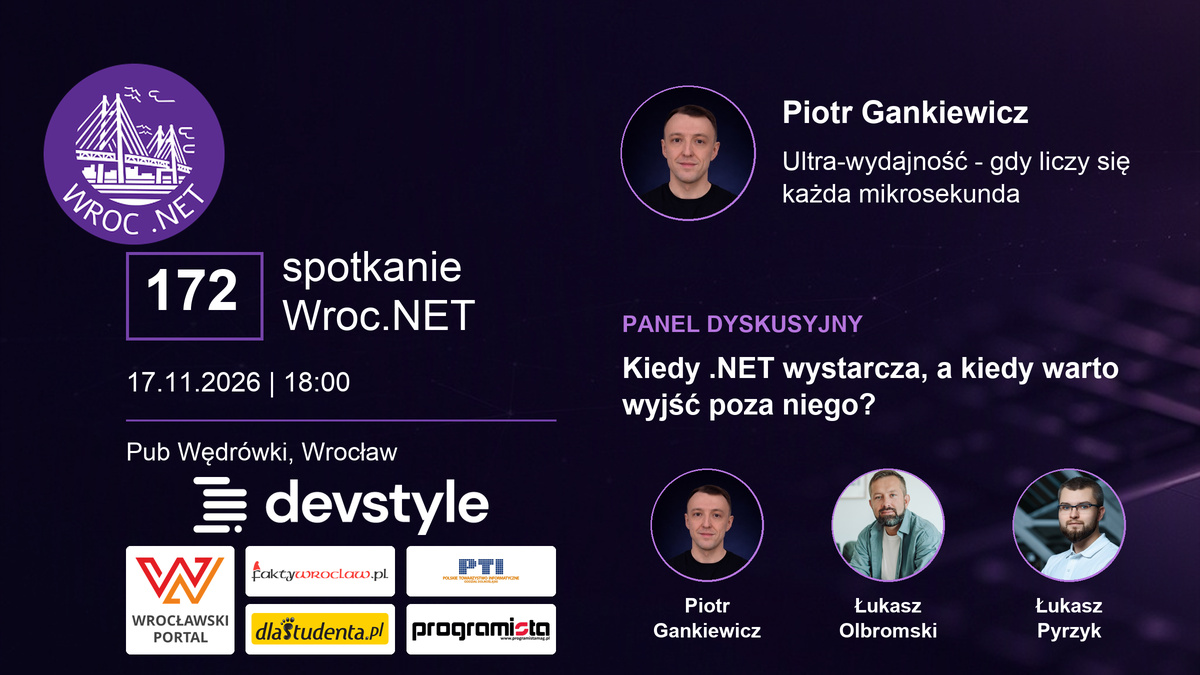
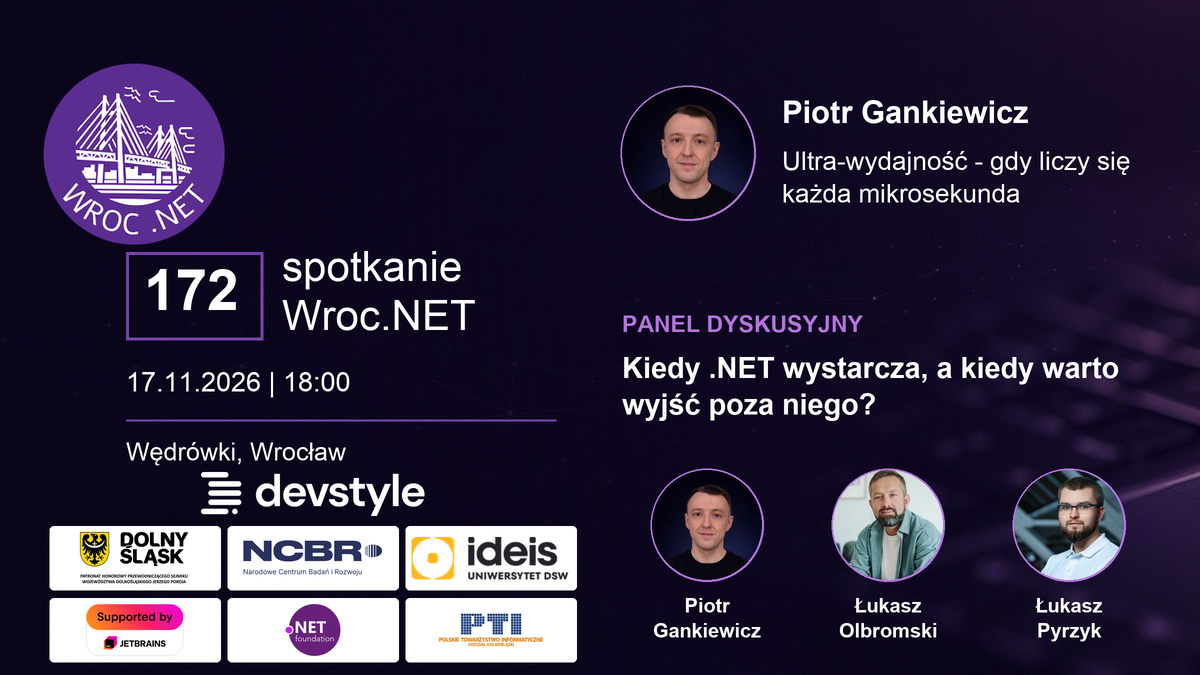
Rename venue to Wędrówki everywhere except historical slides

Changed region(s): [[0.0308, 0.6533, 0.4933, 0.9956]]

diff --git a/_includes/community-photos.html b/_includes/community-photos.html
@@ -14,6 +14,6 @@
       <img src="{{ '/assets/images/community/panel.webp' | relative_url }}" width="1200" height="800" loading="lazy" alt="Prelegenci podczas panelu dyskusyjnego Wroc.NET.">
       <img src="{{ '/assets/images/community/zespol.webp' | relative_url }}" width="1200" height="800" loading="lazy" alt="Wspólne zdjęcie zespołu i prelegentów na scenie 171. spotkania Wroc.NET.">
     </div>
-    <figcaption>171. spotkanie Wroc.NET · 20 października 2026 · Pub Wędrówki</figcaption>
+    <figcaption>171. spotkanie Wroc.NET · 20 października 2026 · Wędrówki</figcaption>
   </figure>
 </section>

diff --git a/office/content/samples/announcements/linkedin-examples.md b/office/content/samples/announcements/linkedin-examples.md
@@ -17,7 +17,7 @@ Zamknęliśmy sezon – i kurczę, aż szkoda, że to już.
 
 Dzięki, że byliście z nami na tym meetupie. Czuć było, że coś się zmieniło – więcej luzu, więcej rozmów, nie tylko słuchania. Wasza energia i zaangażowanie zrobiły mega klimat i pokazały, że ta nowa/stara formuła sprawdza się świetnie. 🔥 
 
-Do tego Pub Wędrówki – strzał w dziesiątkę. Bardzo się cieszymy, że zostajemy tam na dłużej, a to dzięki naszemu stałemu, strategicznemu partnerowi devstyle. Mamy już dograne daty na kolejny sezon, więc jest gdzie wracać! 
+Do tego Wędrówki – strzał w dziesiątkę. Bardzo się cieszymy, że zostajemy tam na dłużej, a to dzięki naszemu stałemu, strategicznemu partnerowi devstyle. Mamy już dograne daty na kolejny sezon, więc jest gdzie wracać! 
 
 Ogromne podziękowania dla naszych prelegentów Karol Rogowski i Mateusz Konicki, którzy dostarczyli masę cennych spostrzeżeń. 
 
@@ -46,7 +46,7 @@ Czasem to „coś" jest trudne do uchwycenia – dopóki ktoś nie pokaże Ci, j
 🔥 Zarejestruj się: https://www.meetup.com/wroclaw-net-user-group/
 
 📅 Kiedy: 16 czerwca 2026, godz. 18:30
-📍 Gdzie: Pub Wędrówki (nowa, stała lokalizacja)
+📍 Gdzie: Wędrówki (nowa, stała lokalizacja)
 
 🔊 Nie strzel sobie w stopę.
 Czy planujesz rozmowę kwalifikacyjną na nowe stanowisko? W tej prezentacji Karol Rogowski pokaże Ci błędy, które rzeczywiście decydują o wyniku — nie błędy w wiedzy technicznej, ale te trudne do uchwycenia elementy rozmowy kwalifikacyjnej.
@@ -81,7 +81,7 @@ Co to oznacza dla naszej społeczności?
 🔹 Planowanie – zamiast organizowania meetupów "z miesiąca na miesiąc", mamy rozpisany cały nadchodzący sezon. 
 🔹 Większy kaliber – przestrzeń i zasoby na realizację projektów, o jakich wcześniej tylko rozmawialiśmy.
 
-Wracamy też do korzeni! 📍 Naszym nowym domem staje się Pub Wędrówki we Wrocławiu — miejsce kultowe, które starsi bywalcy Wroc.NET na pewno doskonale pamiętają.
+Wracamy też do korzeni! 📍 Naszym nowym domem staje się Wędrówki we Wrocławiu — miejsce kultowe, które starsi bywalcy Wroc.NET na pewno doskonale pamiętają.
 
 Ogromne podziękowania dla Maćka Aniserowicza i całego zespołu devstyle za zaufanie. Maciek występował u nas lata temu jako prelegent... Może czas na mały powrót na scenę? 😉 
 

diff --git a/AGENTS.md b/AGENTS.md
@@ -5,6 +5,7 @@
 - For communication, follow [office/AGENTS.md](office/AGENTS.md). Read its technical workflows only for graphics or presentations.
 
 ## Changes and Git
+- Venue name: always "Wędrówki" (in Polish prose "w Wędrówkach"), never "Pub Wędrówki" — the word "pub" puts off sponsors and partners. Keep this in posts (including historical ones), data, banners, new slides and communication; do not edit existing, already presented decks in `slides/`.
 - Keep changes small, content-safe and compatible with existing data schemas, URLs and Polish content style.
 - Link to existing documentation instead of duplicating rules. Do not turn task-specific workarounds into permanent global instructions.
 - Never commit directly to main. Run `git fetch origin main`, then `git switch --no-track -c <branch-name> origin/main` for each task.

diff --git a/_posts/2026-06-16-169-spotkanie-wroclawskiej-grupy-net.md b/_posts/2026-06-16-169-spotkanie-wroclawskiej-grupy-net.md
@@ -24,7 +24,7 @@ meetup_attendees: 47
 
 *Więcej informacji: [Meetup](https://www.meetup.com/wrocnet/events/315183755/)*
 
-**Nowa lokalizacja, która zostanie z nami na kolejny sezon:** ⚡**Pub Wędrówki.**
+**Nowa lokalizacja, która zostanie z nami na kolejny sezon:** ⚡**Wędrówki.**
 
 Domykamy sezon spotkań Wrocławskiej Grupy .NET nieco inaczej niż zwykle – dostaniecie **preview formuły, która będzie z nami w kolejnym sezonie**. Wroc.NET wraca do korzeni i wchodzi na wyższy poziom!
 

diff --git a/office/content/samples/briefs/tags-descriptions-examples.md b/office/content/samples/briefs/tags-descriptions-examples.md
@@ -56,7 +56,7 @@ Nie przenoś automatycznie nazw partnerów, liczb ani dawnych instrukcji narzęd
 - Devstyle logo + Wroc.NET logo (side by side)
 - Text: "Strategic Partner" (large), "Stable location. Planned season. Growing community." (small)
 - Visual: Network lines, subtle code symbols
-- Location badge: "Pub Wędrówki"
+- Location badge: "Wędrówki"
 
 **Dimensions:** 1200x600px  
 **File:** partnership-announcement-devstyle.png

diff --git a/_posts/2026-09-22-170-spotkanie-wroclawskiej-grupy-net.md b/_posts/2026-09-22-170-spotkanie-wroclawskiej-grupy-net.md
@@ -20,7 +20,7 @@ talks:
   - lukasz-olbromski
 ---
 
-🚀 **OTWARCIE SEZONU 2026/2027!** 170. spotkanie Wroc.NET odbędzie się w **Pub Wędrówki, ul. Podwale 37/38, 50-040 Wrocław**.
+🚀 **OTWARCIE SEZONU 2026/2027!** 170. spotkanie Wroc.NET odbędzie się w **Wędrówkach, ul. Podwale 37/38, 50-040 Wrocław**.
 
 *Więcej informacji: [Meetup](https://www.meetup.com/wrocnet/events/316514489/)*
 

diff --git a/_posts/2027-04-20-177-spotkanie-wroclawskiej-grupy-net.md b/_posts/2027-04-20-177-spotkanie-wroclawskiej-grupy-net.md
@@ -10,7 +10,7 @@ header:
   teaser: /assets/images/spotkania-teaser.jpg
 ---
 
-177\. spotkanie Wrocławskiej Grupy .NET odbędzie się 20.04.2027 r. w **Pub Wędrówki, ul. Podwale 37/38, 50-040 Wrocław**.
+177\. spotkanie Wrocławskiej Grupy .NET odbędzie się 20.04.2027 r. w **Wędrówkach, ul. Podwale 37/38, 50-040 Wrocław**.
 
 {% include attendance.html %}
 

diff --git a/_posts/2026-12-15-173-spotkanie-wroclawskiej-grupy-net.md b/_posts/2026-12-15-173-spotkanie-wroclawskiej-grupy-net.md
@@ -21,7 +21,7 @@ talks:
   - hleb-sukrystsik
 ---
 
-173\. spotkanie Wrocławskiej Grupy .NET odbędzie się 15.12.2026 r. o **18:00** w **Pubie Wędrówki, ul. Podwale 37/38, 50-040 Wrocław**.
+173\. spotkanie Wrocławskiej Grupy .NET odbędzie się 15.12.2026 r. o **18:00** w **Wędrówkach, ul. Podwale 37/38, 50-040 Wrocław**.
 
 {% include attendance.html %}
 

diff --git a/_posts/2026-11-17-172-spotkanie-wroclawskiej-grupy-net.md b/_posts/2026-11-17-172-spotkanie-wroclawskiej-grupy-net.md
@@ -22,7 +22,7 @@ talks:
   - lukasz-pyrzyk
 ---
 
-172\. spotkanie Wrocławskiej Grupy .NET odbędzie się 17.11.2026 r. o **18:00** w **Pubie Wędrówki, ul. Podwale 37/38, 50-040 Wrocław**.
+172\. spotkanie Wrocławskiej Grupy .NET odbędzie się 17.11.2026 r. o **18:00** w **Wędrówkach, ul. Podwale 37/38, 50-040 Wrocław**.
 
 {% include attendance.html %}
 

diff --git a/_posts/2027-01-19-174-spotkanie-wroclawskiej-grupy-net.md b/_posts/2027-01-19-174-spotkanie-wroclawskiej-grupy-net.md
@@ -20,7 +20,7 @@ talks:
   - szymon-warda
 ---
 
-174\. spotkanie Wrocławskiej Grupy .NET odbędzie się 19.01.2027 r. o **18:00** w **Pubie Wędrówki, ul. Podwale 37/38, 50-040 Wrocław**.
+174\. spotkanie Wrocławskiej Grupy .NET odbędzie się 19.01.2027 r. o **18:00** w **Wędrówkach, ul. Podwale 37/38, 50-040 Wrocław**.
 
 {% include attendance.html %}
 

diff --git a/_posts/2026-10-20-171-spotkanie-wroclawskiej-grupy-net.md b/_posts/2026-10-20-171-spotkanie-wroclawskiej-grupy-net.md
@@ -21,7 +21,7 @@ talks:
   - maciej-aniserowicz
 ---
 
-171\. spotkanie Wrocławskiej Grupy .NET odbędzie się 20.10.2026 r. w **Pubie Wędrówki, ul. Podwale 37/38, 50-040 Wrocław**.
+171\. spotkanie Wrocławskiej Grupy .NET odbędzie się 20.10.2026 r. w **Wędrówkach, ul. Podwale 37/38, 50-040 Wrocław**.
 
 {% include attendance.html %}
 

diff --git a/_posts/2027-02-16-175-spotkanie-wroclawskiej-grupy-net.md b/_posts/2027-02-16-175-spotkanie-wroclawskiej-grupy-net.md
@@ -15,7 +15,7 @@ talks:
 - title: 'TBD — TBD'
 ---
 
-175\. spotkanie Wrocławskiej Grupy .NET odbędzie się 16.02.2027 r. w **Pub Wędrówki, ul. Podwale 37/38, 50-040 Wrocław**.
+175\. spotkanie Wrocławskiej Grupy .NET odbędzie się 16.02.2027 r. w **Wędrówkach, ul. Podwale 37/38, 50-040 Wrocław**.
 
 {% include attendance.html %}
 
